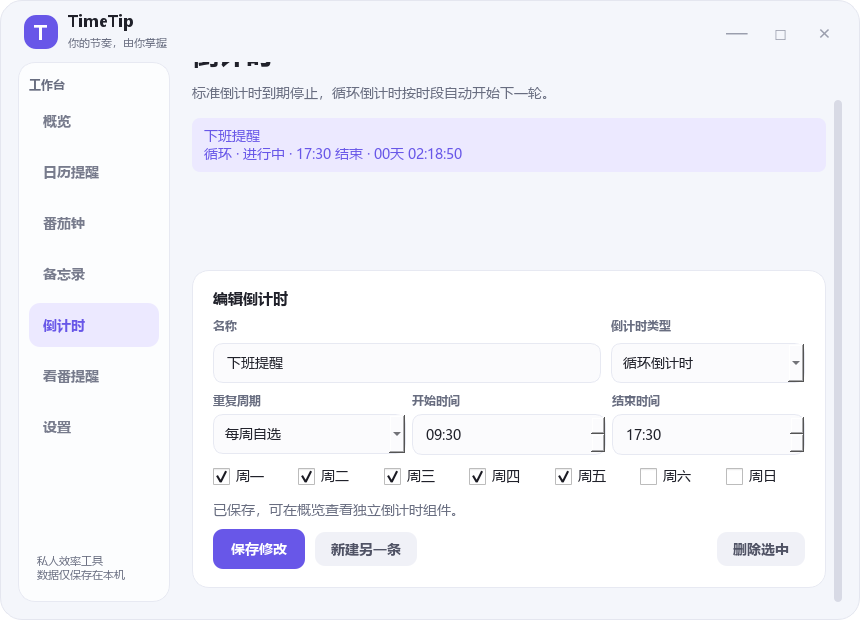
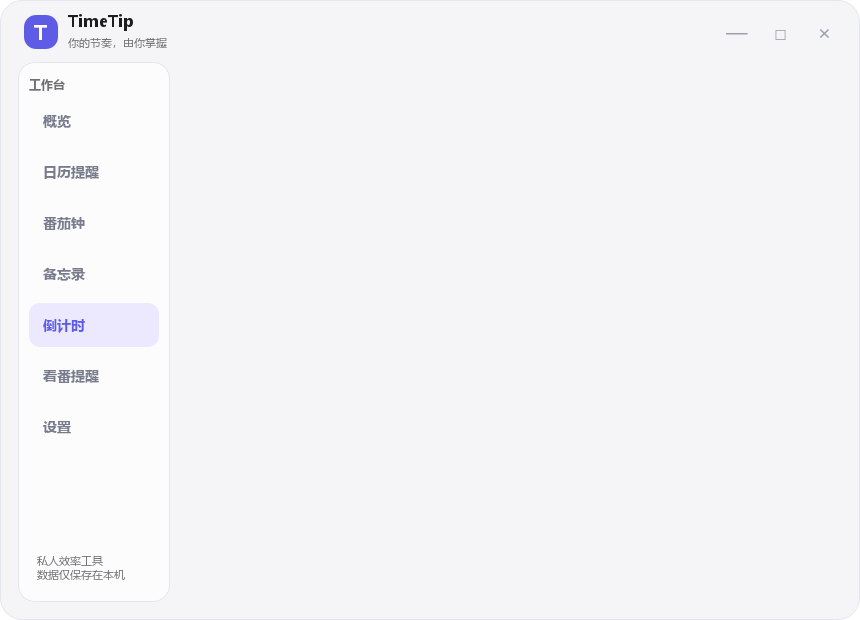
feat: 更新苹果风格主题配色，新增页面切换滑动与组件动效

diff --git a/app/presentation/window.py b/app/presentation/window.py
@@ -4,7 +4,7 @@ import uuid
 from pathlib import Path
 from datetime import datetime, timedelta
 
-from PyQt6.QtCore import QByteArray, QDate, QPoint, QTime, Qt, QTimer, pyqtSignal
+from PyQt6.QtCore import QByteArray, QDate, QEasingCurve, QPoint, QPropertyAnimation, QTime, Qt, QTimer, pyqtSignal
 from PyQt6.QtGui import QColor, QFont, QIcon, QPainter, QPixmap, QTextCharFormat
 from PyQt6.QtWidgets import (
     QApplication,
@@ -366,19 +366,25 @@ class TimeTipWindow(CountdownPageMixin, QMainWindow):
         return sorted(specs, key=lambda spec: self._widget_state(spec[0], spec[2])["order"])
 
     def _rebuild_dashboard(self):
-        for tile in self.tiles.values():
-            tile.hide()
-            tile.deleteLater()
+        # Reuse existing tiles so reorder and resize operations animate in place.
+        previous = self.tiles
         self.tiles = {}
         for key, title, default_size, tone in self._ordered_specs():
             state = self._widget_state(key, default_size)
             if not state["visible"]:
                 continue
-            tile = DashboardTile(key, title, tuple(state["size"]), tone)
-            tile.changed.connect(self._change_widget)
-            tile.opened.connect(self._open_widget)
+            tile = previous.pop(key, None)
+            if tile is None:
+                tile = DashboardTile(key, title, tuple(state["size"]), tone)
+                tile.changed.connect(self._change_widget)
+                tile.opened.connect(self._open_widget)
+            else:
+                tile.update_spec(title, tuple(state["size"]), tone)
             tile.set_editing(self.edit_layout_button.isChecked())
             self.tiles[key] = tile
+        for tile in previous.values():
+            tile.hide()
+            tile.deleteLater()
         self.grid.set_tiles(list(self.tiles.values()))
         self._render_dashboard(datetime.now())
 
@@ -959,7 +965,24 @@ class TimeTipWindow(CountdownPageMixin, QMainWindow):
                 return
 
     def _switch_page(self, index: int) -> None:
+        current = self.pages.currentIndex()
+        if index == current:
+            return
+        direction = 1 if index > current else -1
         self.pages.setCurrentIndex(index)
+        page = self.pages.currentWidget()
+        if page is not None:
+            if hasattr(self, "_page_animation"):
+                self._page_animation.stop()
+            page.raise_()
+            page.move(self.pages.width() * direction, 0)
+            animation = QPropertyAnimation(page, b"pos", self)
+            animation.setDuration(240)
+            animation.setEasingCurve(QEasingCurve.Type.OutCubic)
+            animation.setStartValue(page.pos())
+            animation.setEndValue(QPoint(0, 0))
+            self._page_animation = animation
+            animation.start()
         for i, button in enumerate(self.nav_buttons):
             button.setChecked(i == index)
         if index == 1:
@@ -1183,6 +1206,3 @@ class TimeTipWindow(CountdownPageMixin, QMainWindow):
                 style.setFontWeight(QFont.Weight.Bold)
                 style.setToolTip("有番剧更新：" + anime["title"])
                 self.calendar.setDateTextFormat(qday, style)
-
-
-

diff --git a/app/presentation/widgets.py b/app/presentation/widgets.py
@@ -1,6 +1,6 @@
 from __future__ import annotations
 
-from PyQt6.QtCore import Qt, pyqtSignal
+from PyQt6.QtCore import QEasingCurve, QPropertyAnimation, Qt, pyqtSignal
 from PyQt6.QtWidgets import QFrame, QHBoxLayout, QLabel, QMenu, QPushButton, QSizePolicy, QVBoxLayout, QWidget
 
 from app.domain.layout import WIDGET_SIZES, pack_widgets
@@ -80,6 +80,13 @@ class DashboardTile(QFrame):
 
     def set_editing(self, editing):
         self.menu_button.setVisible(editing)
+
+    def update_spec(self, title, size, tone):
+        self.span = tuple(size)
+        self.setProperty("tone", tone)
+        self.style().unpolish(self)
+        self.style().polish(self)
+        self.title_label.setText(title)
 
     def show_menu(self):
         menu = QMenu(self)
@@ -163,5 +170,4 @@ class Card(QFrame):
         super().__init__(parent)
         self.setObjectName(object_name)
         self.setSizePolicy(QSizePolicy.Policy.Expanding, QSizePolicy.Policy.Preferred)
-
 

diff --git a/app/presentation/theme.py b/app/presentation/theme.py
@@ -1,11 +1,11 @@
 """Shared application theme."""
 APP_NAME = "TimeTip"
-PRIMARY = "#6857E8"
-TEXT = "#20212A"
-MUTED = "#686D80"
+PRIMARY = "#5E5CE6"
+TEXT = "#1D1D1F"
+MUTED = "#6E6E73"
 SURFACE = "#FFFFFF"
-BACKGROUND = "#F4F6FB"
-BORDER = "#E7E9F2"
+BACKGROUND = "#F5F5F7"
+BORDER = "#E5E5EA"
 
 
 STYLESHEET = f"""
@@ -81,5 +81,4 @@ QMenu::item:selected {{ background: #ECE9FF; color: {PRIMARY}; }}
 #widgetCard[tone="purple"] #widgetMenu {{ background: rgba(255,255,255,0.20); }}
 #widgetMenu:hover {{ background: #DCD7FF; }}
 """
-
 

diff --git a/docs/ui-style.md b/docs/ui-style.md
@@ -1,0 +1,37 @@
+# TimeTip 页面风格与动效规范
+
+## 设计方向
+
+TimeTip 采用苹果风格的极简桌面界面：内容优先、留白充足、层级克制。页面使用浅灰背景、白色卡片和单一蓝紫强调色，组件通过细边框与轻微阴影建立层次，避免大面积渐变和高饱和装饰。
+
+## 视觉令牌
+
+| 令牌 | 值 | 用途 |
+| --- | --- | --- |
+| 背景 | #F5F5F7 | 应用工作区背景 |
+| 表面 | #FFFFFF | 卡片、输入框和侧边栏 |
+| 主色 | #5E5CE6 | 主按钮、当前导航和关键数据 |
+| 正文 | #1D1D1F | 标题与正文 |
+| 次要文字 | #6E6E73 | 辅助说明、时间和提示 |
+| 分隔线 | #E5E5EA | 边框与分组边界 |
+
+使用 8px 间距节奏；卡片圆角 16–18px，控件圆角 10–12px；正文至少 14px，关键数字使用等宽数字避免计时刷新时跳动。
+
+## 交互与动效
+
+- 页面切换使用 240ms 的水平滑入，方向与导航顺序一致，帮助用户保持空间连续性。
+- 概览组件重新排序、显示隐藏或调整尺寸时，使用 260ms OutCubic 几何过渡；组件从原位置平滑移动到新网格位置，周围卡片同步推挤。
+- 微交互保持 150–300ms，优先使用位置和透明度，避免突兀的瞬时变化。
+- 窗口缩放时不启动布局动画，避免拖动窗口产生延迟。
+- 后续接入系统“减少动态效果”偏好时，应将过渡时长降为 0–80ms，并保留状态变化本身。
+
+## 组件约定
+
+- 侧边栏是稳定的二级导航，当前页面同时通过文字、颜色和背景块标识。
+- 所有按钮保留可见焦点、禁用态和至少 44px 的点击高度。
+- 图标使用同一套线性图标；当前项目的文字操作按钮继续保持清晰标签，不使用 emoji 作为结构图标。
+- 错误、成功和提醒状态同时提供文字，不依赖颜色单独传达含义。
+
+## 维护方式
+
+全局颜色、圆角和控件状态集中维护在 app/presentation/theme.py。布局动画位于 app/presentation/widgets.py，页面切换动画位于 app/presentation/window.py。新增页面或组件时先复用令牌，再记录本文件中的例外和原因。
